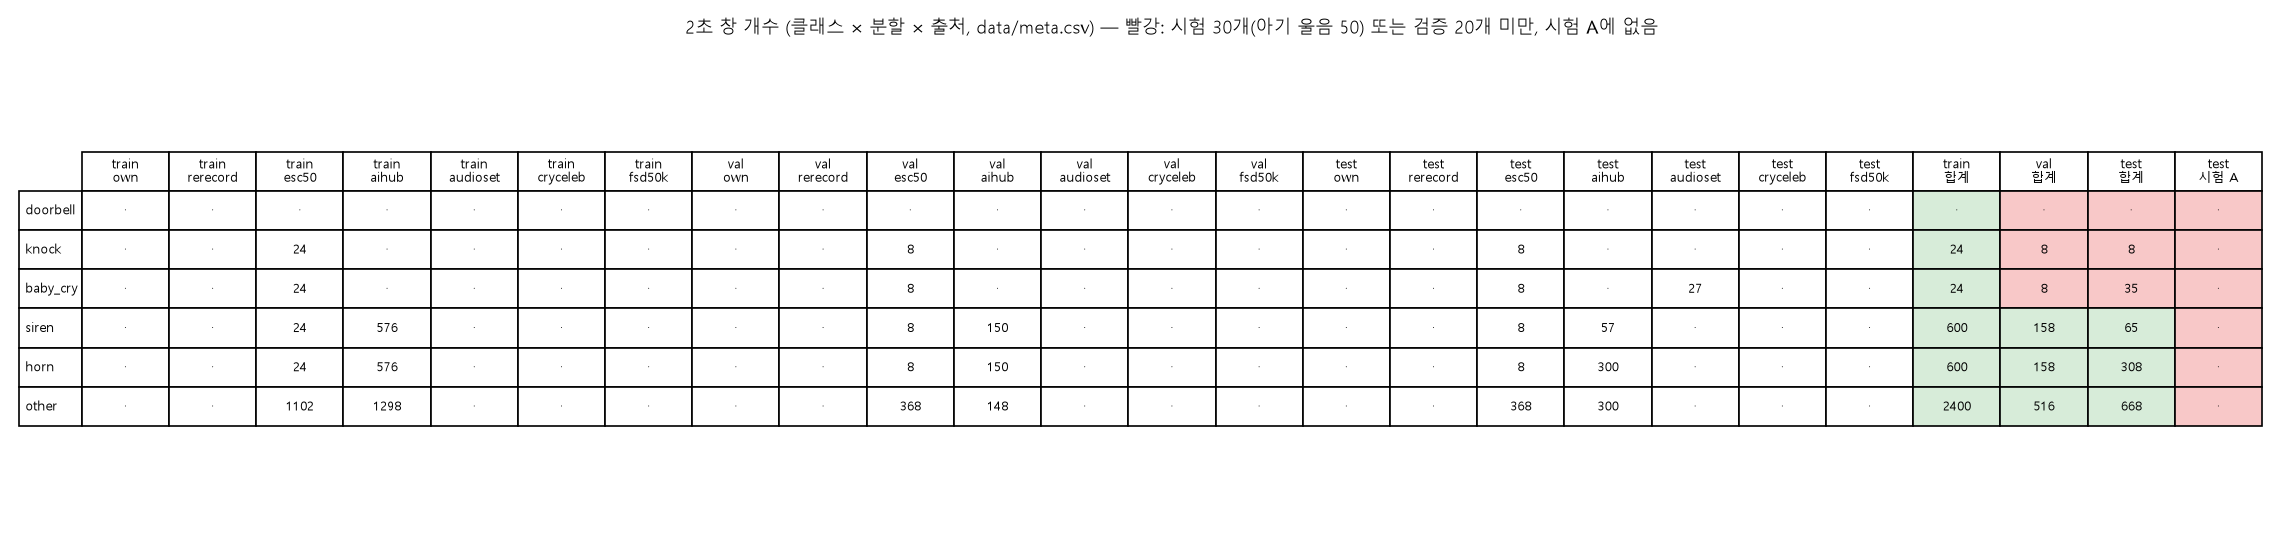
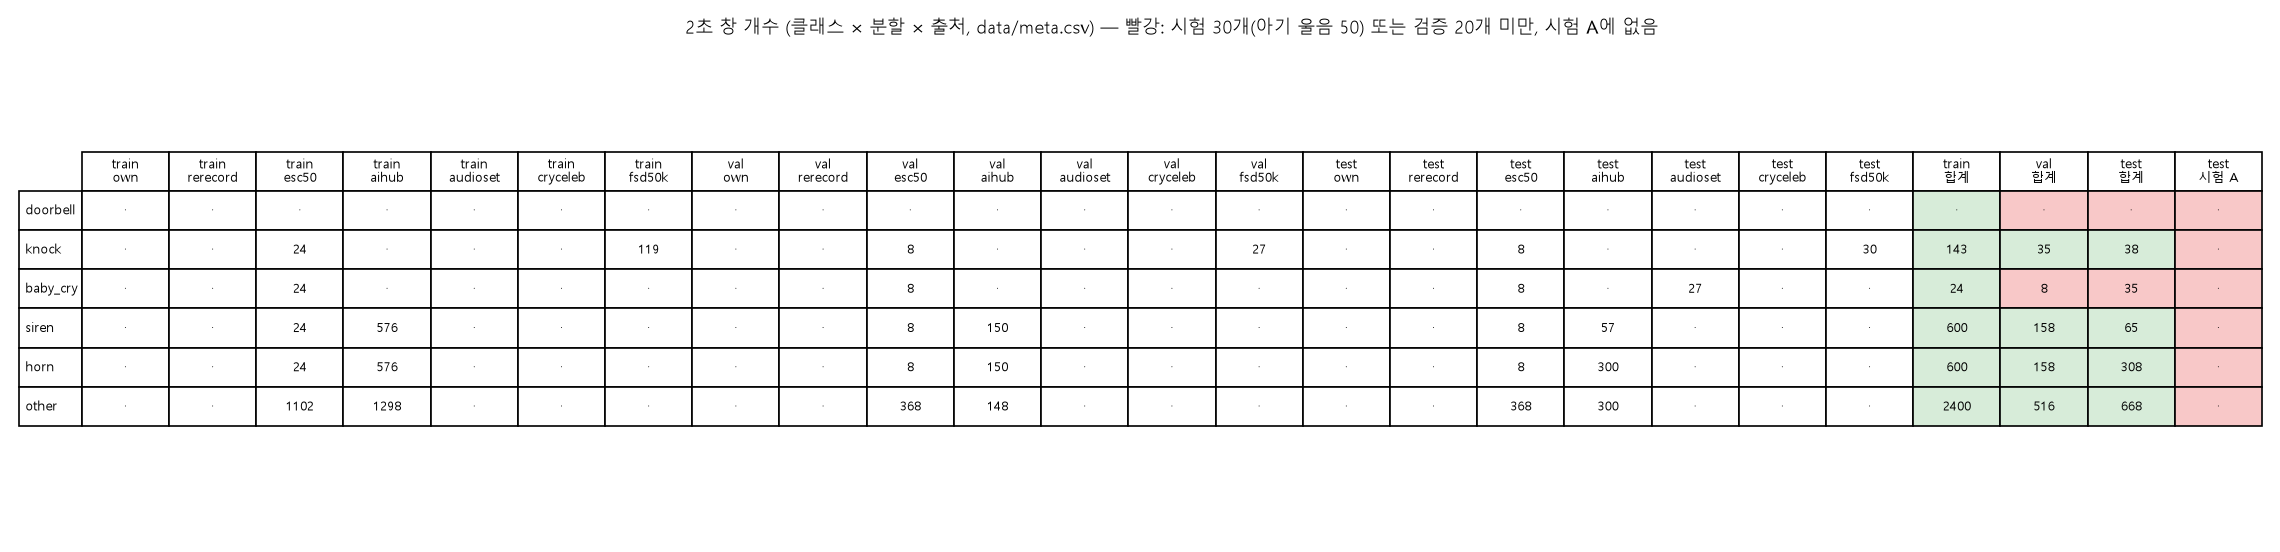
2단계: FSD50K 노크 270개 꺼내기·창 176개, meta.csv 다시 만들기

Changed region(s): [[0.8408, 0.4004, 0.9654, 0.4928]]

diff --git a/docs/work_log.md b/docs/work_log.md
@@ -262,6 +262,21 @@ python train/check_session.py data/raw/knock_1126_s02_desk_phone.wav --expect 10
 - 신호음 시작을 20 ms 일찍 잡는 쏠림 → 분석 창 가운데 기준으로 고침
 - 최종 흉내 녹음 시험(시계 +40 ppm, 울림, 잡음 −55 dBFS): 30/30개, 정답 위치와 최대 8.7 ms·평균 6.4 ms, 앞 무음 대비 21.2 dB 이상
 
+**5. FSD50K 노크 처리** (`train/fsd50k.py`, 출력 `docs/logs/fsd50k_extract_1127.txt`, `docs/logs/fsd50k_windows_1127.txt`)
+- 다운로드: 처음 한 줄씩 받기가 느려 6개 조각을 동시에 이어받기(curl)로 다시 시작. 서버 속도 제한(합계 약 1.2 MB/s) 때문에 오래 걸림. 조각 6개 모두 끝(z01~z05 각 3,221,225,472 바이트, .zip 2,306,663,327 바이트)
+- `python train/fsd50k.py extract`: 반디집 명령줄로 Knock wav만 꺼냄 → 270 / 270개, 압축 오류 없음(exit 0)
+- `python train/fsd50k.py windows`: Knock 270개 → 창 176개. 2초 미만 94개를 뺌(AI Hub와 같은 결정). 너무 조용한 것 0개
+- 분할(올린 사람 단위): train 119개(29명), val 27개(20명), test 30개(22명)
+- 창 176개 라이선스: CC0 109, CC BY 49, CC BY-NC 16, Sampling+ 2
+- 메모: 분할 비율은 270개 기준으로 맞췄고, 2초 미만을 뺀 뒤 창 비율은 119:27:30
+
+**8. 표 다시 만들기** (출력 `docs/logs/build_meta_1127b.txt`, `docs/logs/check_splits_1127b.txt`, 그림 `docs/figures/data_counts_1127.png` 갱신)
+- `python train/build_meta.py` → meta.csv 5,917줄 (own 161, esc50 1,998, aihub 3,681, audioset 27, fsd50k 176)
+- `python train/check_splits.py --date 1127` → 묶음 2,003개, 여러 분할에 걸친 묶음 0개(통과)
+- 노크: train 143, val 35, test 38 (FSD50K 전에는 val 8, test 8)
+- 남은 부족 칸: doorbell test 0·val 0(직접 녹음 split 미정), baby_cry test 35 < 50, val 8 < 20. 시험 A 비어 있음
+- CryCeleb: 허깅페이스 토큰 아직 없음(다시 확인) → 사용자 로그인 대기
+
 ## 다음 할 일
 - 설계서 7절 다음 단계 진행 (다음 단계 문서를 받으면)
 
